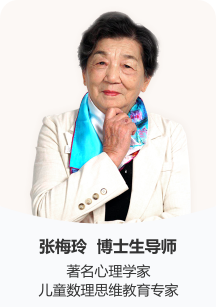
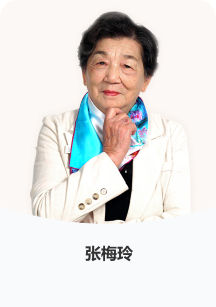
...

Changed region(s): [[0.1667, 0.7622, 0.8333, 0.9674]]

diff --git a/Resources/View/index/join.html b/Resources/View/index/join.html
@@ -90,13 +90,13 @@
             </dl>
 
             <dl class="col-xs-6 col-md-6">
-                <dt class="thumbnail"><img class="lazy" src="http://img.cdn.mofashuxue.com/zml.png" class=""></dt>
-                <dd><p class="brand_bg_desc">中科院专家 / 著名心理学家 / 儿童数理教育专家</p>
+                <dt class="thumbnail"><img class="lazy" src="/static/img/zml.png" class=""></dt>
+                <dd><p class="brand_bg_desc">张梅玲及研发团队</p>
                 </dd>
             </dl>
             <dl class="col-xs-6 col-md-6">
-                <dt class="thumbnail"><img class="lazy" src="http://img.cdn.mofashuxue.com/zxl.png" class=""></dt>
-                <dd><p class="brand_bg_desc">北师大教授 / 脑与数学认知专家</p>
+                <dt class="thumbnail"><img class="lazy" src="/static/img/zxl.png" class=""></dt>
+                <dd><p class="brand_bg_desc">周新林及研发团队</p>
                 </dd>
             </dl>
         </section>
@@ -104,7 +104,7 @@
     <!-- 自主研发 -->
     <section class="rd">
         <h3 class="rd_tit">自主研发多元思维课，教研部科研成果基地</h3>
-        <p class="rd_honor"><img class="lazy" src="http://img.cdn.mofashuxue.com/tg.png"></p>
+        <p class="rd_honor"><img class="lazy" src="/static/assets/img/tg.png"></p>
         <section class="rd_content">
             <section class="rd_left"></section>
             <section class="rd_list">
